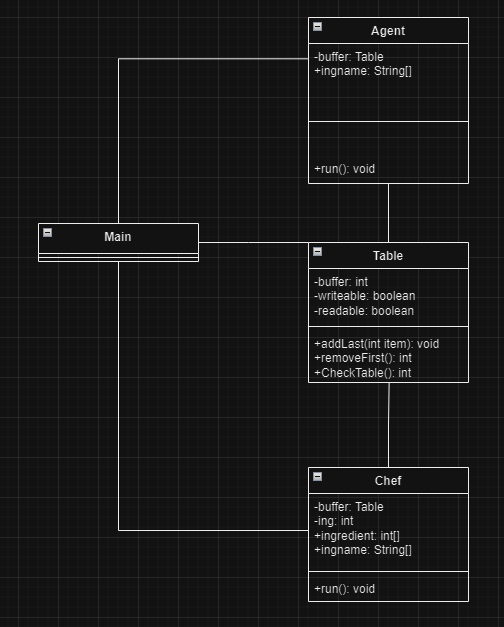
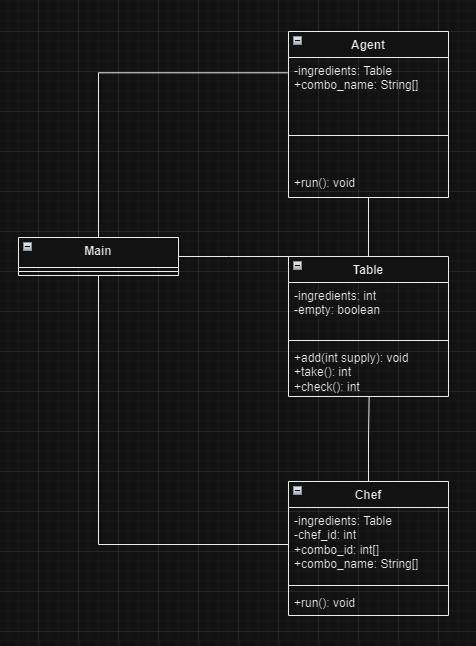
removed a repeated line, updated the UML diagram

Changed region(s): [[0.0294, 0.0303, 0.9412, 0.9697]]

diff --git a/SYSC3303-A1/src/Chef.java b/SYSC3303-A1/src/Chef.java
@@ -24,8 +24,6 @@ class Chef implements Runnable
 
         while (true)
         {
-
-            if (ingredients.check() == -1) break;
             // If the ingredient the chef has infinite of matches the combination on the table, make the sandwich and eat it
             // terminate thread when table closed
             if (ingredients.check() == -1) break;
